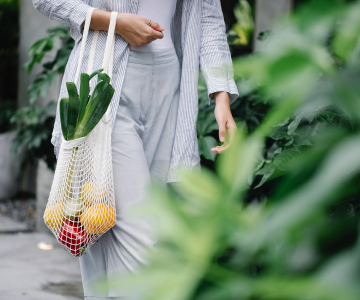
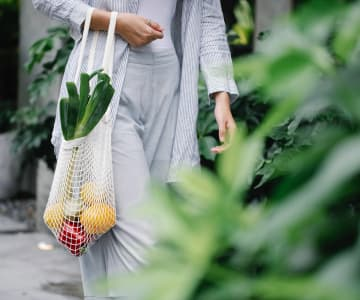
styles-02
- Всі растрові зображення оптимізовані, використовуючи squoosh.
- header & 1st section color and font

diff --git a/CSS/styles.css b/CSS/styles.css
@@ -1,22 +1,102 @@
 
-/* Global styles */
+/* - Global styles */
 
 body {
     font-family: 'Roboto', sans-serif;
+    letter-spacing: 0.02em;
     background-color: #fff;
-    height: 100%;
-    /* width: 1440px;
-    height: 2593px; */
+    color: #2E2F42;
+    /* height: 100%; */
 }
 
-/* Header */
+/* - --- Header */
 
-header {
-    height: 72px;
-    padding: 24px 0;
+.header {
+    /* height: 72px;
+    box-shadow: 0px 2px 1px rgba(46, 47, 66, 0.08), 0px 1px 1px rgba(46, 47, 66, 0.16), 0px 1px 6px rgba(46, 47, 66, 0.08);
+    padding: 24px 0; */
+}
+
+.logo {
+    font-family: 'Raleway', sans-serif;
+    font-weight: 800;
+    font-size: 18px;
+    line-height: 1.3333;
+    letter-spacing: 0.03em;
+    text-transform: uppercase;
+    color: #2E2F42;
+    text-decoration: none;
+    /* padding-left: 156px; */
+}
+
+.accent {
+    color: #4D5AE5;
+}
+
+.nav-list {
+    list-style-type: none;
+    /* padding: 0px;
+    gap: 40px; */
+}
+
+.nav-item {
+    text-decoration: none;
+    font-weight: 600;
+    font-size: 16px;
+    line-height: 1.5;
+    color: #2E2F42;
+}
+
+.nav-item:hover {
+    color: #4D5AE5;;
+}
+
+.nav-item:focus {
+    color: #434455;
+}
+
+.header-conts {
+    list-style-type: none;
+}
+
+.tel-mail {
+    text-decoration: none;
+    font-weight: 400;
+    font-size: 16px;
+    line-height: 1.5;
+    color: #434455;
+}
+
+.tel-mail:hover, .tel-mail:focus {
+    color: #4D5AE5;
 }
 
 /* Main */
+
+.hero {
+    background: #2E2F42;
+    font-weight: 600;
+    font-size: 56px;
+    line-height: 107%;
+    text-align: center;
+    color: #FFFFFF;
+}
+
+.order-btn {
+    background: #4D5AE5;
+    box-shadow: 0px 4px 4px rgba(0, 0, 0, 0.15);
+    border-radius: 4px;
+    font-weight: 600;
+    font-size: 16px;
+    line-height: 1.1875;
+    letter-spacing: 0.04em;
+    color: #FFFFFF;
+    cursor: pointer;
+}
+
+.order-btn:hover {
+    background: #404BBF;
+}
 
 /* Footer */
 
@@ -48,10 +128,8 @@ header {
     width: 71px;
     height: 24px;
     font-family: 'Raleway', sans-serif;
-    font-style: normal;
-    font-weight: 800;
-    font-size: 18px;
-    line-height: 24px;
+  
+    
     display: flex;
     align-items: center;
     letter-spacing: 0.03em;
@@ -64,9 +142,7 @@ header {
     
 }
 
-.accent {
-    color: #4D5AE5;
-}
+
 
 a {
     text-decoration: none;
@@ -97,9 +173,7 @@ a {
     list-style: none;
 }
 
-.nav-item {
-    text-decoration: none;
-} */
+ */
 
 
 

diff --git a/index.html b/index.html
@@ -15,32 +15,39 @@
     <link href="./css/styles.css" rel="stylesheet" />
   </head>
   <body>
-    <header>
+    <header class="header">
+      <a href="./index.html" class="logo"
+        ><span class="accent">WEB</span>STUDIO</a
+      >
       <nav>
-        <a href="./index.html" class="logo"
-          ><span class="accent">WEB</span>STUDIO</a
-        >
-
         <ul class="nav-list">
-          <li><a href="./index.html" class="nav-item">Sudio</a></li>
+          <li>
+            <a href="./index.html" class="nav-item">Sudio</a>
+          </li>
           <li><a href="./portfolio.html" class="nav-item">Portfolio</a></li>
           <li><a href="#" class="nav-item">Contacts</a></li>
         </ul>
       </nav>
 
-      <ul>
-        <li><a href="mailto:info@devstydio.com">info@devstudio.com</a></li>
-        <li><a href="tel:+110001111111">+11 (000) 111-11-11</a></li>
+      <ul class="header-conts">
+        <li>
+          <a href="mailto:info@devstydio.com" class="tel-mail"
+            >info@devstudio.com</a
+          >
+        </li>
+        <li>
+          <a href="tel:+110001111111" class="tel-mail">+11 (000) 111-11-11</a>
+        </li>
       </ul>
     </header>
 
     <main>
-      <section>
+      <section class="hero">
         <h1>
           Effective Solutions <br />
           for Your Business
         </h1>
-        <button type="button">Order Service</button>
+        <button type="button" class="order-btn">Order Service</button>
       </section>
 
       <ul>
@@ -125,7 +132,7 @@
     </main>
 
     <footer>
-      <a href="./index.html"><span>WEB</span>STUDIO</a>
+      <a href="./index.html" class="logo"><span>WEB</span>STUDIO</a>
       <p>
         Increase the flow of customers and sales for your business with digital
         marketing & growth solutions.

diff --git a/portfolio.html b/portfolio.html
@@ -15,22 +15,27 @@
     <link href="./css/styles.css" rel="stylesheet" />
   </head>
   <body>
-    <header>
+    <header class="header">
+      <a href="./index.html" class="logo"
+        ><span class="accent">WEB</span>STUDIO</a
+      >
       <nav>
-        <a href="./index.html" class="logo"
-          ><span class="accent">WEB</span>STUDIO</a
-        >
-
         <ul class="nav-list">
-          <li><a href="./index.html">Sudio</a></li>
-          <li><a href="./portfolio.html">Portfolio</a></li>
-          <li><a href="#">Contacts</a></li>
+          <li><a href="./index.html" class="nav-item">Sudio</a></li>
+          <li><a href="./portfolio.html" class="nav-item">Portfolio</a></li>
+          <li><a href="#" class="nav-item">Contacts</a></li>
         </ul>
       </nav>
 
       <ul>
-        <li><a href="mailto:info@devstydio.com">info@devstudio.com</a></li>
-        <li><a href="tel:+110001111111">+11 (000) 111-11-11</a></li>
+        <li>
+          <a href="mailto:info@devstydio.com" class="tel-mail"
+            >info@devstudio.com</a
+          >
+        </li>
+        <li>
+          <a href="tel:+110001111111" class="tel-mail">+11 (000) 111-11-11</a>
+        </li>
       </ul>
     </header>
 
